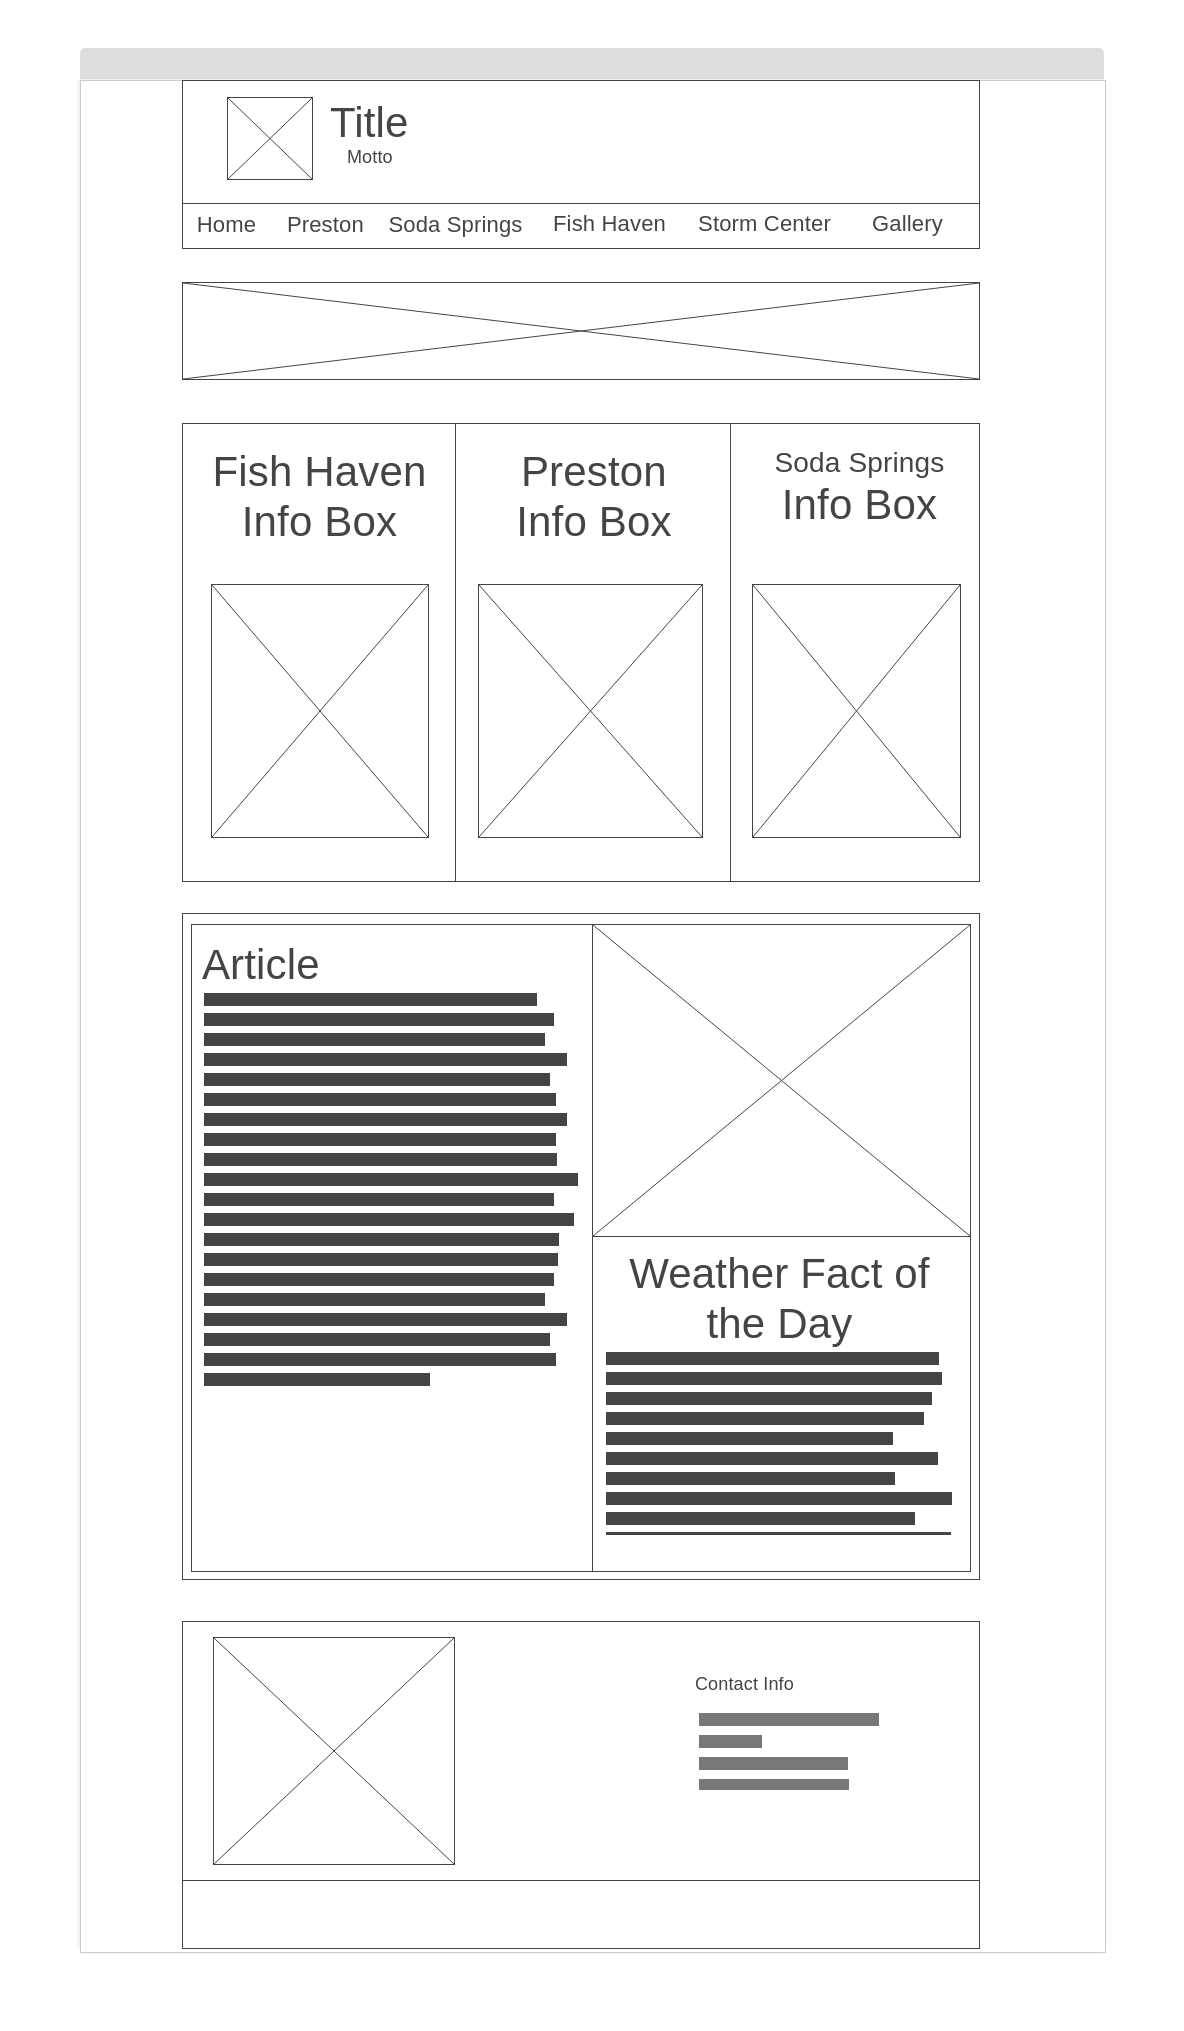
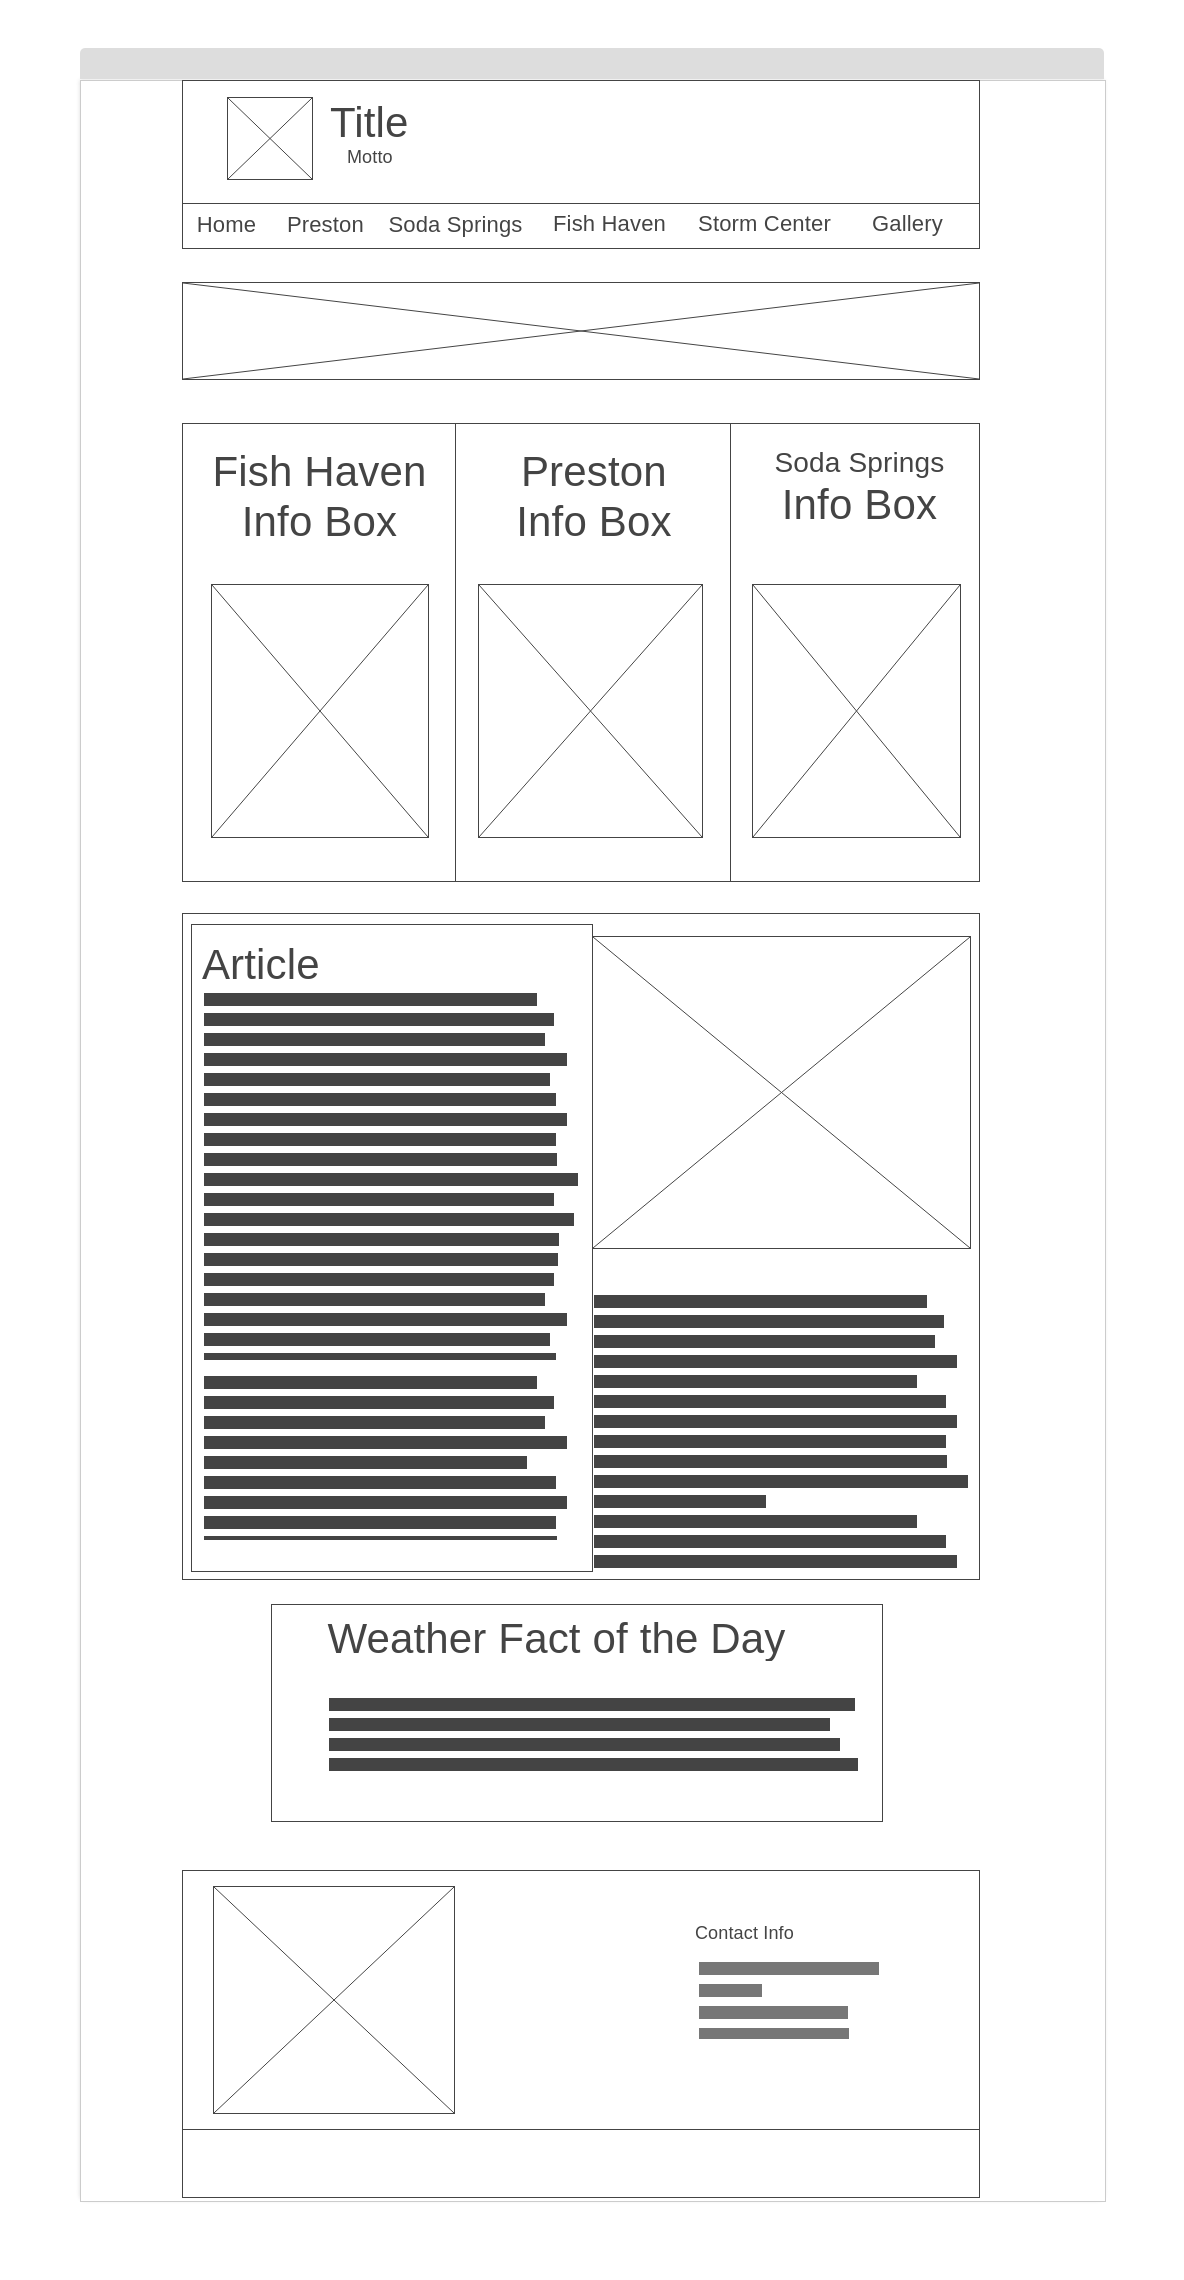
Tweaks

diff --git a/lesson6/css/desktop.css b/lesson6/css/desktop.css
@@ -91,4 +91,12 @@
 	.fact h3{
 		margin-bottom: 0;
 	}
+
+	.article img{
+		width: 25rem;
+	}
+
+	.article-weather-fact .article img{
+		width: 30rem;
+	}
 }
